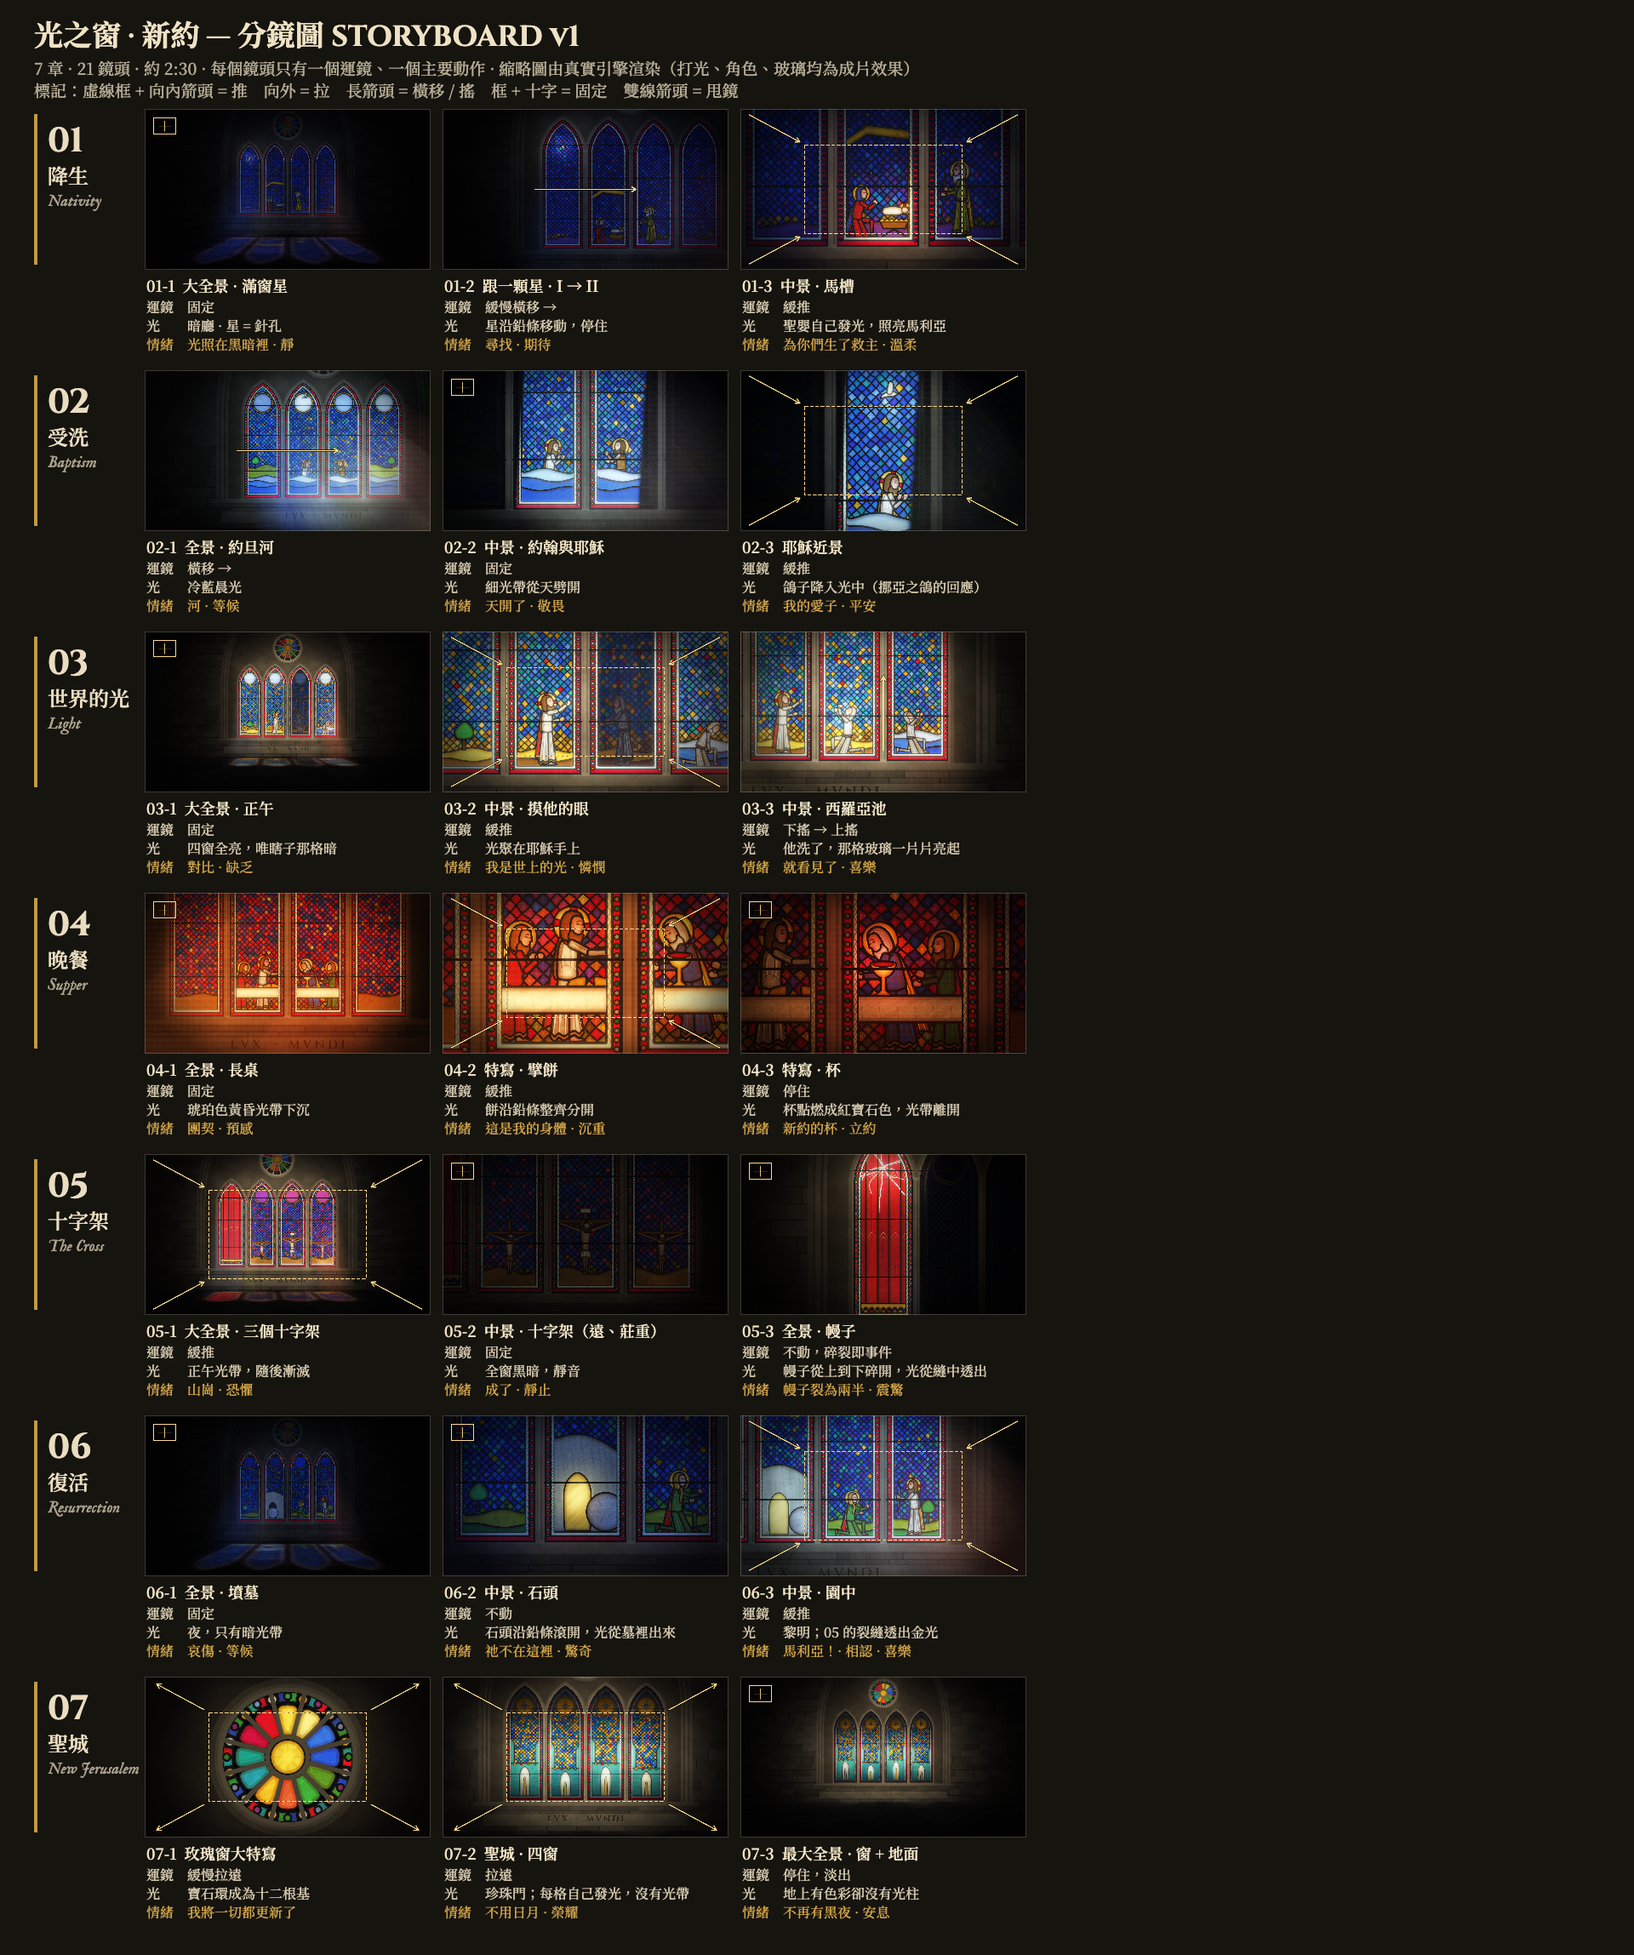
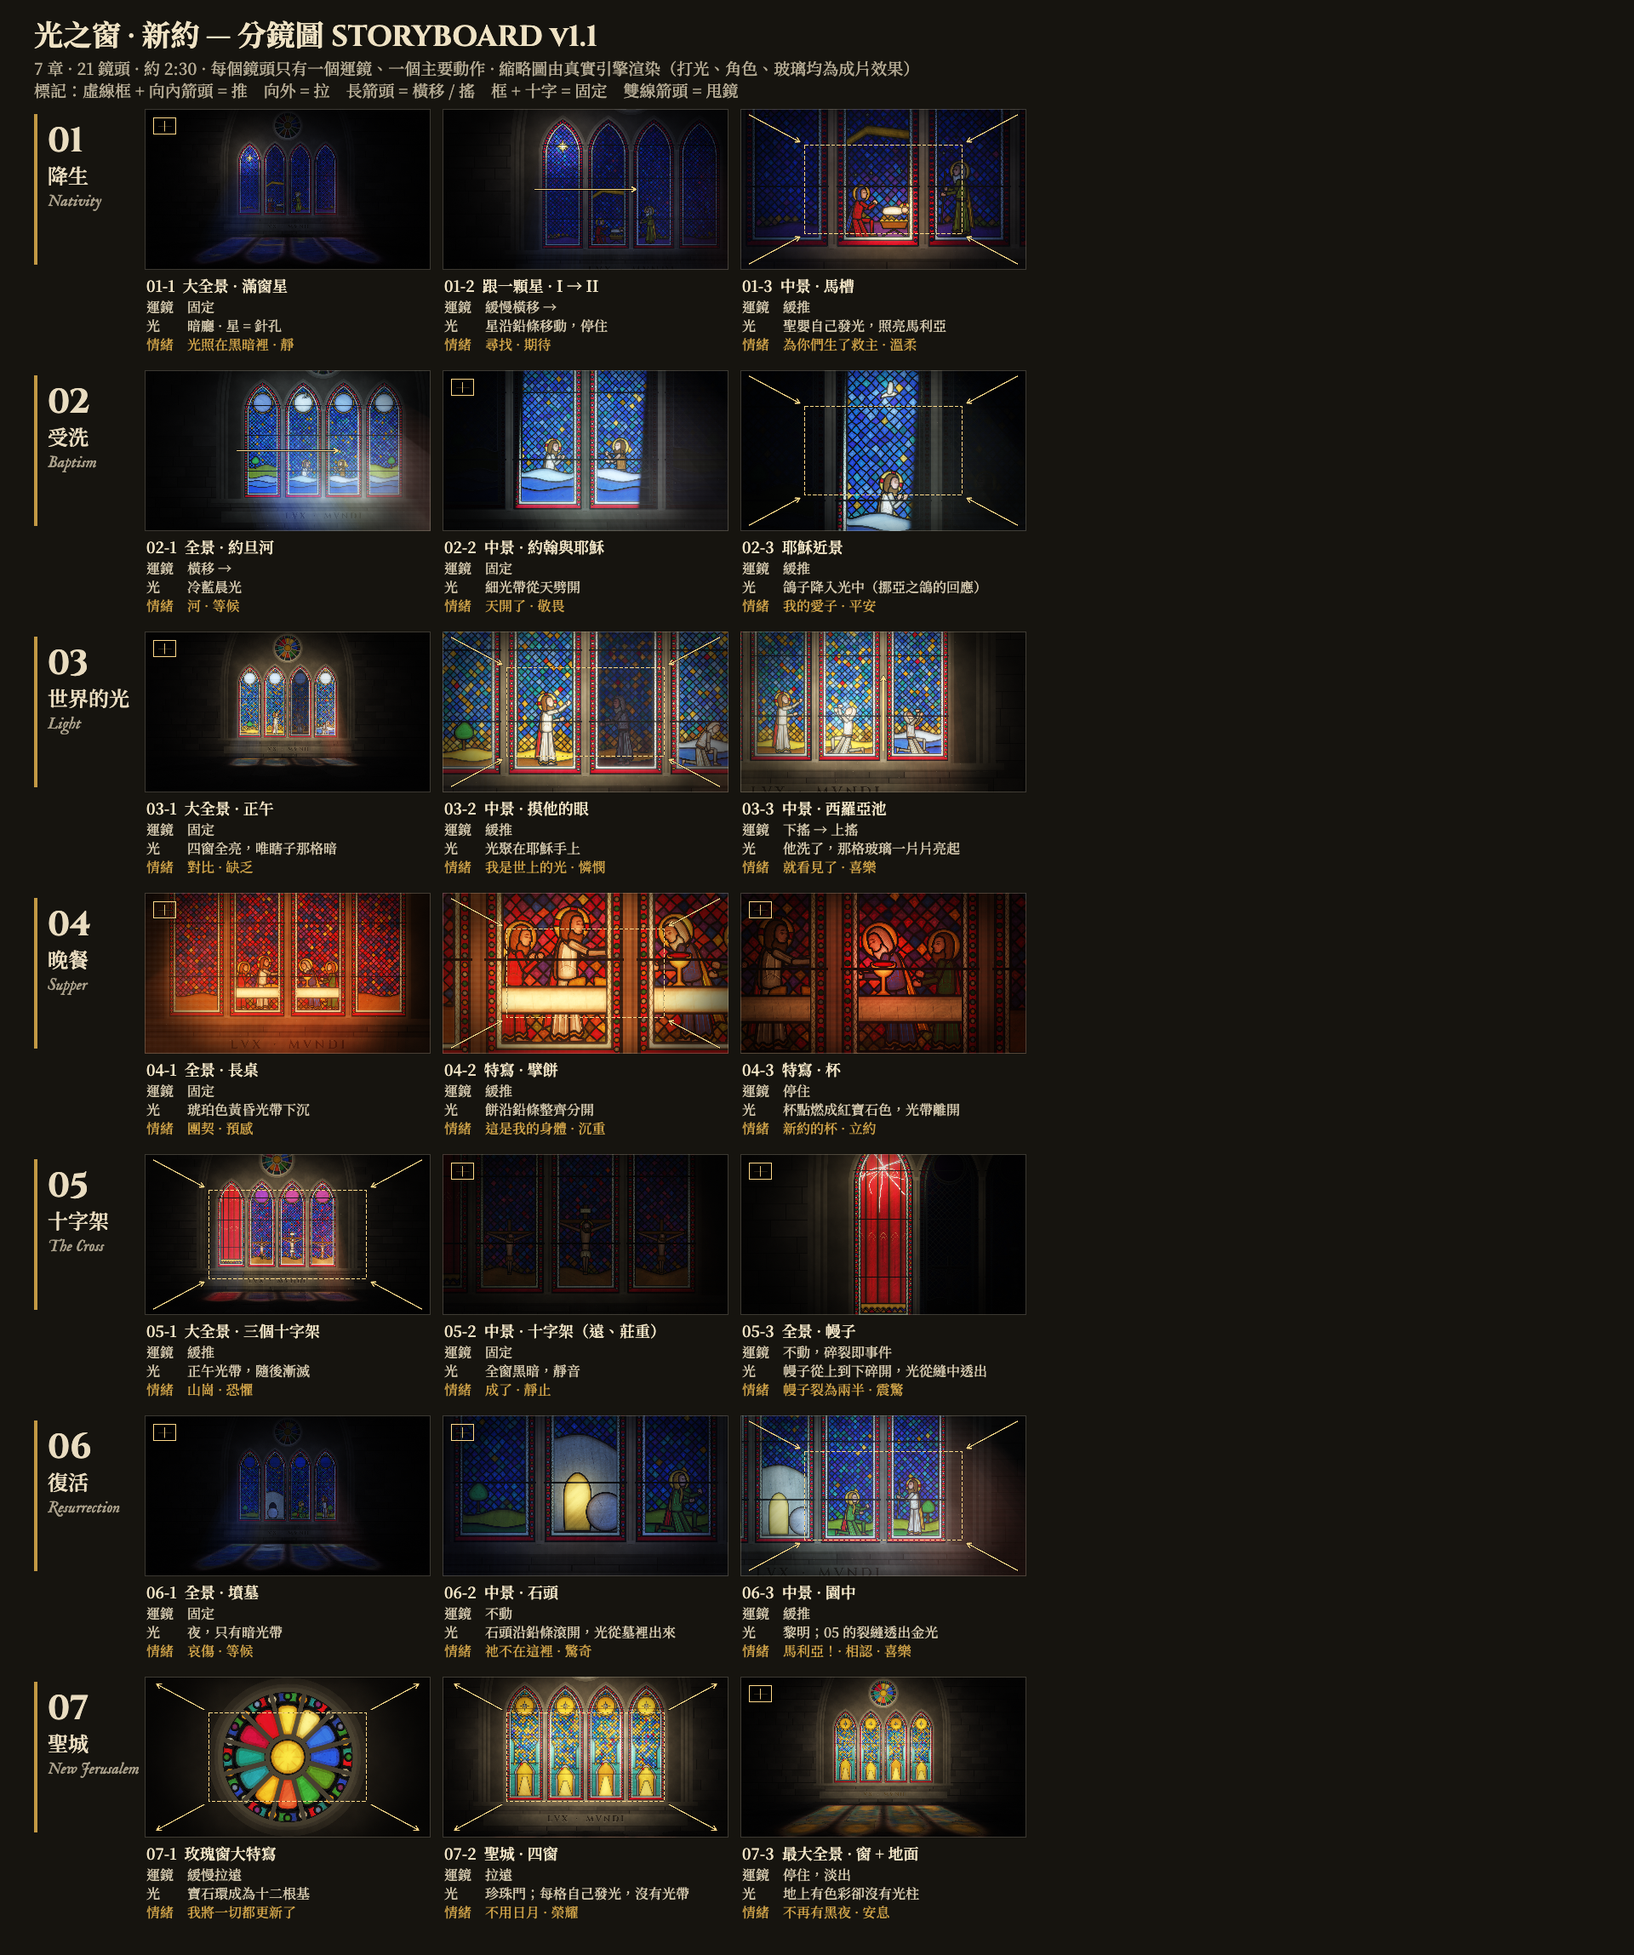
Sprint 1 v1.1: bigger star at the wides, pearl gate redrawn, 07 floor light, NT style frames

diff --git a/clips/sf.js b/clips/sf.js
@@ -1,58 +1,20 @@
-// Style frames (dev clip, not in the film): 0–1 s Eden (the first crack) · 1–2 s Flood (rainbow thrown on the floor,
-// top-down) · 2–3 s Promise (night; mended scars; one pane keeps its own light). Preview: node preview.mjs sf 0.5 1.5 2.5
+// Style frames (dev clip, not in the film): the board's key shots at full size, clean (no camera marks), with a caption
+// each to test type over the grade. 0–1 s 01-3 Nativity (the child's own light) · 1–2 s 04-3 Supper (the cup) ·
+// 2–3 s 07-3 New Jerusalem (no sun; colour on the floor, no shafts). Preview: node preview.mjs sf 0.5 1.5 2.5
+const SF = ['01-3', '04-3', '07-3'];
 window.CLIP = {
   id: 'sf',
-  duration: 3,
-  uses: ['_glass'],
+  duration: SF.length,
+  uses: ['_glass', 'board'],
   timing: { fadeIn: [-1, -.9], fade: [99, 100] },
   nosub: false,
   caps: [
-    [0.05, 0.95, 'And the serpent said unto the woman, Ye shall not surely die.', '蛇對女人說：你們不一定死。'],
-    [2.05, 2.95, 'The people that walked in darkness have seen a great light.', '行在黑暗中的百姓看見了大光。'],
+    [0.05, 0.95, 'For unto you is born this day a Saviour.', '因今天為你們生了救主。'],
+    [1.05, 1.95, 'This cup is the new testament in my blood.', '這杯是用我血所立的新約。'],
+    [2.05, 2.95, 'And there shall be no night there.', '在那裡不再有黑夜。'],
   ],
-  panes(E, t, which) {
-    const { COL, roundel, sunDisc, hills, tree, dove, circle } = E, G = window.GX;
-    const eden = { glass: G.glass(E, 'eden'), content: (P, cx) => {
-      roundel(P, cx, -150, 78, COL.sky, 7000); sunDisc(P, cx, -150, 28, COL.gold2, 7030, 12);
-      hills(P, cx, 540, [{ y: -10, a: 12, ph: 1, c: COL.olive }, { y: 40, a: 8, ph: 3, c: COL.green2 }], 7100);
-      G.bigTree(E, P, cx + 10, 560, 1, 7200);
-      G.serpent(E, P, cx + 10, 440, 1.15, 7300);
-      if (which === 'eden') G.drawCracks(E, P, G.cracks(E, cx, cx - 50, 310, 31), 1, false);
-      if (which === 'night') G.drawCracks(E, P, G.cracks(E, cx, cx - 50, 310, 31), 1, true);
-    } };
-    const flood = (k) => ({ glass: G.glass(E, 'flood'), content: (P, cx) => {
-      P.piece(new Path2D(`M${cx - 160} -400 H${cx + 160} V660 H${cx - 160} Z`), k % 2 ? COL.blue2 : COL.cobalt, { id: 7400 + k, lead: 0, mat: false });
-      G.rainbow(E, P, 0, 420, 520, 34, 7500 + k * 10);
-      G.waves(E, P, cx, 470, k * 1.3, 7600 + k * 10);
-      if (k === 1) G.ark(E, P, cx, 470, 1, 7700);
-      if (k === 2) dove(P, cx - 10, 120, 1, 7710);
-    } });
-    const promise = { glass: G.glass(E, 'promise'), content: (P, cx) => {   // a lamp that keeps burning: small, centred, the only warm glass at night
-      roundel(P, cx, -150, 78, COL.deepblue, 7800);
-      for (let k = 0; k < 6; k++) window.GX.star(E, P, cx + Math.cos(k * 1.05) * 50, -150 + Math.sin(k * 1.05) * 50, 8, 7810 + k);
-      P.piece(E.smooth([[cx - 40, 420, 1], [cx + 40, 420, 1], [cx + 26, 380], [cx - 26, 380]]), COL.gold, { id: 7850, lead: 4.5, matW: 6 });
-      P.piece(E.smooth([[cx, 300], [cx + 18, 350], [cx, 378], [cx - 18, 350]]), COL.amber, { id: 7851, lead: 3.4, mat: false });
-      hills(P, cx, 540, [{ y: 0, a: 10, ph: 2, c: COL.green2 }, { y: 40, a: 8, ph: 4, c: COL.brown }], 7860);
-    } };
-    if (which === 'flood') return [0, 1, 2, 3].map(flood);
-    if (which === 'night') return [eden, flood(1), flood(2), promise];
-    return [{}, {}, eden, {}];
-  },
   state(t, E) {
-    const { LX, SUN } = E;
-    if (t < 1) {   // EDEN · close-up on lancet III in low afternoon light; the crack has just run out from the fruit
-      return { cam: [LX[2], 330, 1.5], sunU: LX[2] + 10, bandW: 330, sunI: 2.4, sunCol: SUN.aft, sx: -.36, sz: 1.3, skyI: .13, skyCol: [.55, .65, .9],
-        amb: .08, spill: .5, contrast: .22, vign: .6, ambCol: [.62, .64, .82], roseI: .8, floorMode: 1, floor: { camD: 2600, eyeH: 320 }, lancets: this.panes(E, t, 'eden'),
-        pts: [[LX[2] - 50, 310, 90, 1.6, [1, .95, .85]]], time: 3 };
-    }
-    if (t < 2) {   // FLOOD · top-down: the rainbow window thrown onto the flagstones at noon
-      return { cam: [0, 250, 1], sunU: 0, bandW: 3200, sunI: 2.7, sunCol: SUN.noon, sx: .05, sz: .9, skyI: .15, skyCol: [.55, .65, .9],
-        amb: .1, ambCol: [.62, .64, .82], floorMode: 2, topCam: [0, 700, .75], pm: [-1000, 150, 2000, 1250], pmBlur: 2, patchK: 1.9,
-        vign: .5, bloom: .65, thr: .45, lancets: this.panes(E, t, 'flood'), time: 3 };
-    }
-    // PROMISE · night wide: moonlight through every pane, the Eden crack mended with lead, one lamp keeps its own light
-    return { cam: [0, 300, .5], sunU: 0, bandW: 3200, sunI: .5, sunCol: SUN.moon, sx: 0, sz: 1.2, skyI: .05, skyCol: [.4, .5, .9],
-      amb: .06, ambCol: [.5, .55, .8], roseI: .15, floorMode: 1, floor: { camD: 2600, eyeH: 320 }, lancets: this.panes(E, t, 'night'),
-      pts: [[LX[3], 350, 120, 2.6, [1, .6, .25]]], inscription: window.GX.TITLE, gild: .2, time: 3 };
+    const B = window.BOARD;
+    return B.shot(SF[Math.min(SF.length - 1, Math.floor(t))], E);
   },
 };

diff --git a/clips/board.js b/clips/board.js
@@ -64,7 +64,7 @@ window.CLIP = {
     if (ch === 'nativity') return [0, 1, 2, 3].map((k) => pane((P, cx, b) => {
       self.stars(E, P, cx, 8000 + k * 40, 20);
       hills(P, cx, 560, [{ y: 0, a: 10, ph: k, c: COL.purple2 }], 8200 + k);
-      if (k === (o.starAt ?? 1)) GX.bigStar(E, P, cx + (k === 1 ? 40 : 0), k === 1 ? 60 : -120, 34, 8300);
+      if (k === (o.starAt ?? 1)) GX.bigStar(E, P, cx + (k === 1 ? 40 : 0), k === 1 ? 60 : -120, k === 1 ? 34 : 64, 8300);   // big at the wides
       if (k === 1) { GX.stable(E, P, cx, 8310); self.fig(E, P, cx, b, 'mary', 'pray', -80, .62);
         GX.manger(E, P, cx + 60, 604, .9, 8330); E.drawChild(P, b.translate(cx + 60, 604 - 94), 8340); P.setTransform(b); }
       if (k === 2) { self.fig(E, P, cx, b, 'joseph', 'holdStaff', -30, .72, true); }
@@ -119,10 +119,12 @@ window.CLIP = {
   shot(id, E) {
     const { LX, ROSE } = E, L = (k, o) => this.light(E, k, o), W = [0, 300, .5];
     const flash = (x, y) => [[x, y, 110, 3.2, [1, .96, .85]]], warm = [1, .8, .5], white = [1, .97, .9];
-    const within = [0, 1, 2, 3].map((i) => [LX[i], 250, 190, 2.4, white]);
+    // 07: no sun (Rev 21:23) — a shadowless white light, no shafts in the air, only colour on the floor
+    const glory = { sunI: 1.6, sunCol: [1, .97, .9], sx: 0, sz: 1.3, raysK: 0, haze: .08, roseI: 1.8, skyI: .3 };
+    const within = [0, 1, 2, 3].map((i) => [LX[i], 150, 170, 1.8, white]);
     switch (id) {
-      case '01-1': return L('night', { cam: W, sunI: 1.0, skyI: .1, lancets: this.panes(E, 'nativity', { starAt: 0 }), pts: [[LX[0], -120, 50, 2.2, white]] });
-      case '01-2': return L('night', { cam: [-340, 200, .9], sunI: 1.0, skyI: .1, lancets: this.panes(E, 'nativity', { starAt: 0 }), pts: [[LX[0], -120, 60, 2.4, white]] });
+      case '01-1': return L('night', { cam: W, sunI: 1.0, skyI: .1, lancets: this.panes(E, 'nativity', { starAt: 0 }), pts: [[LX[0], -120, 120, 3.2, white]] });
+      case '01-2': return L('night', { cam: [-340, 200, .9], sunI: 1.0, skyI: .1, lancets: this.panes(E, 'nativity', { starAt: 0 }), pts: [[LX[0], -120, 120, 3.2, white]] });
       case '01-3': return L('night', { cam: [LX[1] + 20, 430, 1.8], sunI: .9, skyI: .1, lancets: this.panes(E, 'nativity'), pts: [[LX[1] + 60, 520, 110, 3, warm], [LX[1] + 40, 60, 40, 1.4, white]] });
       case '02-1': return L('dawn', { cam: [-300, 250, .8], lancets: this.panes(E, 'baptism', { doveY: -200 }) });
       case '02-2': return L('dawn', { cam: [0, 380, 1.5], sunU: 0, bandW: 520, sunI: 2.8, lancets: this.panes(E, 'baptism', { doveY: -200 }) });
@@ -140,8 +142,8 @@ window.CLIP = {
       case '06-2': return L('night', { cam: [LX[1], 470, 1.8], sunI: 1.0, skyI: .1, lancets: this.panes(E, 'tomb', { roll: .85 }), pts: [[LX[1] - 30, 470, 70, 1.5, [1, .85, .55]]] });
       case '06-3': return L('dawn', { cam: [(LX[2] + LX[3]) / 2, 400, 1.3], lancets: this.panes(E, 'tomb', { roll: 1, dawn: true, scars: true }) });
       case '07-1': return L('noon', { cam: [0, ROSE.y, 2.6], sunI: 0, roseI: 2.2, amb: .04, lancets: this.panes(E, 'jerusalem') });
-      case '07-2': return L('noon', { cam: [0, 280, .8], sunI: 0, roseI: 1.8, skyI: .3, lancets: this.panes(E, 'jerusalem'), pts: within });
-      case '07-3': return L('noon', { cam: W, sunI: 0, roseI: 1.8, skyI: .3, lancets: this.panes(E, 'jerusalem'), pts: within, inscription: window.GX.TITLE, gild: .3 });
+      case '07-2': return L('noon', { cam: [0, 280, .8], ...glory, lancets: this.panes(E, 'jerusalem'), pts: within });
+      case '07-3': return L('noon', { cam: W, ...glory, lancets: this.panes(E, 'jerusalem'), pts: within, inscription: window.GX.TITLE, gild: .3 });
     }
     return L('night', { cam: W });
   },
@@ -163,3 +165,4 @@ window.CLIP = {
     O.restore();
   },
 };
+window.BOARD = window.CLIP;   // sf.js loads the board through `uses` and draws its shots

diff --git a/clips/_glass.js b/clips/_glass.js
@@ -335,8 +335,14 @@ window.GX = {
     for (const [x, h] of [[cx - 118, 170], [cx + 118, 150]]) P.piece(smooth([[x - 30, y + 40, 1], [x - 30, y - h, 1], [x, y - h - 50, 1], [x + 30, y - h, 1], [x + 30, y + 40, 1]]), COL.teal, { id: id + (x > cx), lead: 5, wash: .25 });
     P.piece(smooth([[cx - 160, 606, 1], [cx - 160, y, 1], [cx + 160, y, 1], [cx + 160, 606, 1]]), COL.teal, { id: id + 2, lead: 5.5, wash: .3,
       paint: g => { g.strokeStyle = 'rgba(10,40,40,.45)'; g.lineWidth = 1.4; g.beginPath(); for (let r = 0; r < 6; r++) { const yy = y + 20 + r * 34; g.moveTo(cx - 160, yy); g.lineTo(cx + 160, yy); } g.stroke(); } });
-    P.piece(smooth([[cx - 42, 606, 1], [cx - 42, y + 90], [cx, y + 30], [cx + 42, y + 90], [cx + 42, 606, 1]]), COL.white, { id: id + 3, lead: 5, matW: 10 });   // the pearl gate
-    P.piece(smooth([[cx - 14, 606, 1], [cx - 8, y + 130], [cx + 8, y + 130], [cx + 14, 606, 1]]), COL.gold2, { id: id + 4, lead: 3.4, mat: false });    // the street of gold
+    // the gate: open (Rev 21:25), a wide round arch of pearl (nacre wash, pale rose/blue sheen) around a warm doorway,
+    // the street of gold running out of it and widening toward us — broad, not a slim flame
+    const gx = 64, gy = y + 60;
+    P.piece(smooth([[cx - gx - 16, 606, 1], [cx - gx - 16, gy + 40, 1], [cx - gx - 16, gy], [cx, gy - gx - 22], [cx + gx + 16, gy], [cx + gx + 16, gy + 40, 1], [cx + gx + 16, 606, 1],
+      [cx + gx, 606, 1], [cx + gx, gy + 40, 1], [cx + gx, gy], [cx, gy - gx - 4], [cx - gx, gy], [cx - gx, gy + 40, 1], [cx - gx, 606, 1]]), '#cfc6dc', { id: id + 3, lead: 5, matW: 8,
+      paint: g => { for (const [c, dx] of [['rgba(240,170,200,.35)', -40], ['rgba(150,200,240,.35)', 40]]) brush(g, [[cx + dx - 30, gy - 50], [cx + dx * 1.6, gy + 10], [cx + dx * 1.7, 600]], 4, { color: c }); } });
+    P.piece(smooth([[cx - gx, 606, 1], [cx - gx, gy + 40, 1], [cx - gx, gy], [cx, gy - gx - 4], [cx + gx, gy], [cx + gx, gy + 40, 1], [cx + gx, 606, 1]]), COL.gold, { id: id + 5, lead: 4, wash: .3 });   // light within
+    P.piece(smooth([[cx - 18, gy + 50, 1], [cx + 18, gy + 50, 1], [cx + 60, 606, 1], [cx - 60, 606, 1]]), COL.gold2, { id: id + 4, lead: 3.4, mat: false });    // the street of gold
     this.JEWELS.forEach((c, k) => { if (k % 2 === (id % 2)) return; const x = cx - 140 + (k >> 1) * 56; P.piece(circle(x, y + 8, 11), c, { id: id + 10 + k, lead: 3, mat: false }); });
   },
   // rain: grisaille streaks painted on the glass, stepped (t already stepped by the caller)

diff --git a/PROGRESS.md b/PROGRESS.md
@@ -5,11 +5,9 @@ Sequel to `../bible-story` (the Old Testament, finished 2026-09-30). Everything 
 "Notes" applies here too (same engine, `sg/`, `clips/_glass.js`); read those sections there instead of re-learning.
 
 ## Next step
-**Sprint 1 — cast sheet v1 + storyboard v1 waiting for the user's review** (`docs/castsheet.png`,
-`docs/storyboard.png`). After sign-off: push to https://github.com/dizhangai-star/bible-story-nt.git (remote `origin`
-set), then Sprint 2 (01-nativity, 02-baptism), starting each chapter from its board shots in `clips/board.js`.
-Open items from the board: 07 has colour but no floor patch (the floor light comes from the sun band; with `sunI` 0
-there is none — 07 may need a floor patch from `pts` or a very soft white band); the 01 star is small at the wide.
+**Sprint 1 done — v1.1 waiting for the user's review** (`docs/castsheet.png`, `docs/storyboard.png` v1.1,
+`docs/styleframes.png`). After sign-off: Sprint 2 (01-nativity, 02-baptism), starting each chapter from its board
+shots in `clips/board.js` (`BOARD.shot(id, E)` gives the lit state of any board shot).
 
 ## Decisions (locked)
 - **Folder / repo:** own folder `bible-nt/`, own git repo; `bible-story/` and `_kit/` are never edited from here.
@@ -33,8 +31,9 @@ there is none — 07 may need a floor patch from `pts` or a very soft white band
 ## Sprints
 Numbered from 0 in this repo (the OT film's Sprints 0–6 are in `../bible-story`).
 - [x] **0 · Scaffold** — `bible-nt/` from bible-story's engine; LVX · MVNDI; 00-title text (2026-09-30)
-- [ ] **1 · Brief + cast + storyboard**: TREATMENT · cast sheet v1 · glass keys · board v1 — drafted 2026-09-30, in review
-  (style frames: the board thumbnails serve; `sf.js` still holds the OT frames)
+- [x] **1 · Brief + cast + storyboard**: TREATMENT · cast sheet v1 · glass keys · board v1.1 · style frames (2026-09-30)
+  v1.1: 01 star r 64 + brighter glow at the wides; pearl gate redrawn (wide nacre arch, gold doorway, street widening
+  toward us — v1's slim white arch read as a candle); 07 floor light (see Notes); `sf.js` = 01-3 · 04-3 · 07-3 clean
 - [ ] **2 · 01-nativity, 02-baptism**
 - [ ] **3 · 03-light, 04-supper**
 - [ ] **4 · 05-cross, 06-resurrection**
@@ -43,7 +42,7 @@ Numbered from 0 in this repo (the OT film's Sprints 0–6 are in `../bible-story
 
 ## Notes
 - `clips/ot-genesis.js` has no joint (`uses` without `02-eden`; `GX.joint` returns the state as is when the next
-  clip isn't loaded). `sf.js` and `08-end.js` still hold the OT content (rewrite in Sprint 6).
+  clip isn't loaded). `08-end.js` still holds the OT content (rewrite in Sprint 6).
 - NT cast (`sg/figure.js` CAST): jesus, jesusRisen (gold mantle, cross-staff), mary (blue veil = `head: 'cloth'`,
   `band: false`), joseph, john, blind, peter, magdalene, disciple. New options: `halo: 'cross'|'plain'` (drawn first,
   behind the head), `lock: false` (no front hair lock; men with long hair), items `crossStaff`, `cup`, `bread`.
@@ -58,3 +57,7 @@ Numbered from 0 in this repo (the OT film's Sprints 0–6 are in `../bible-story
   world-unit painter (board.js `fig` does it).
 - An unlit pane in a lit window (03 blind man): heavy dark matting over the pane (`board.dim`), since the band lights
   whole lancets.
+- 07 light (no sun, Rev 21:23): `glory` in board.js — a white band `sunI` 1.6, `sz` 1.3 (long floor patch), `raysK` 0 and
+  `haze` .08 so there are no shafts in the air, only colour on the floor; window glow `pts` at y 150, 1.8.
+- `board.js` sets `window.BOARD` (the runtime resets `window.CLIP` to the main clip after loading `uses`), so a dev
+  clip can `uses: ['_glass', 'board']` and call `window.BOARD.shot(id, E)` (sf.js does).
